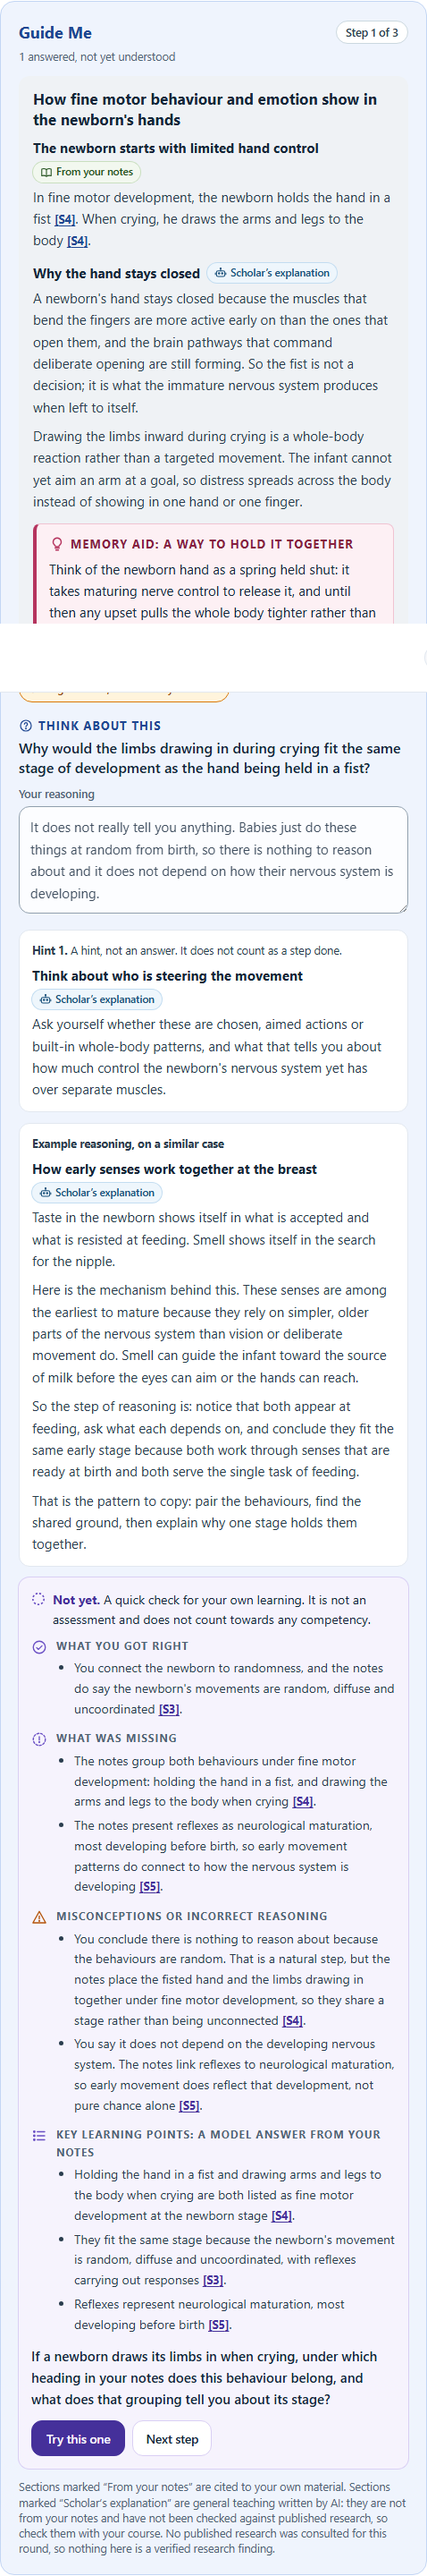
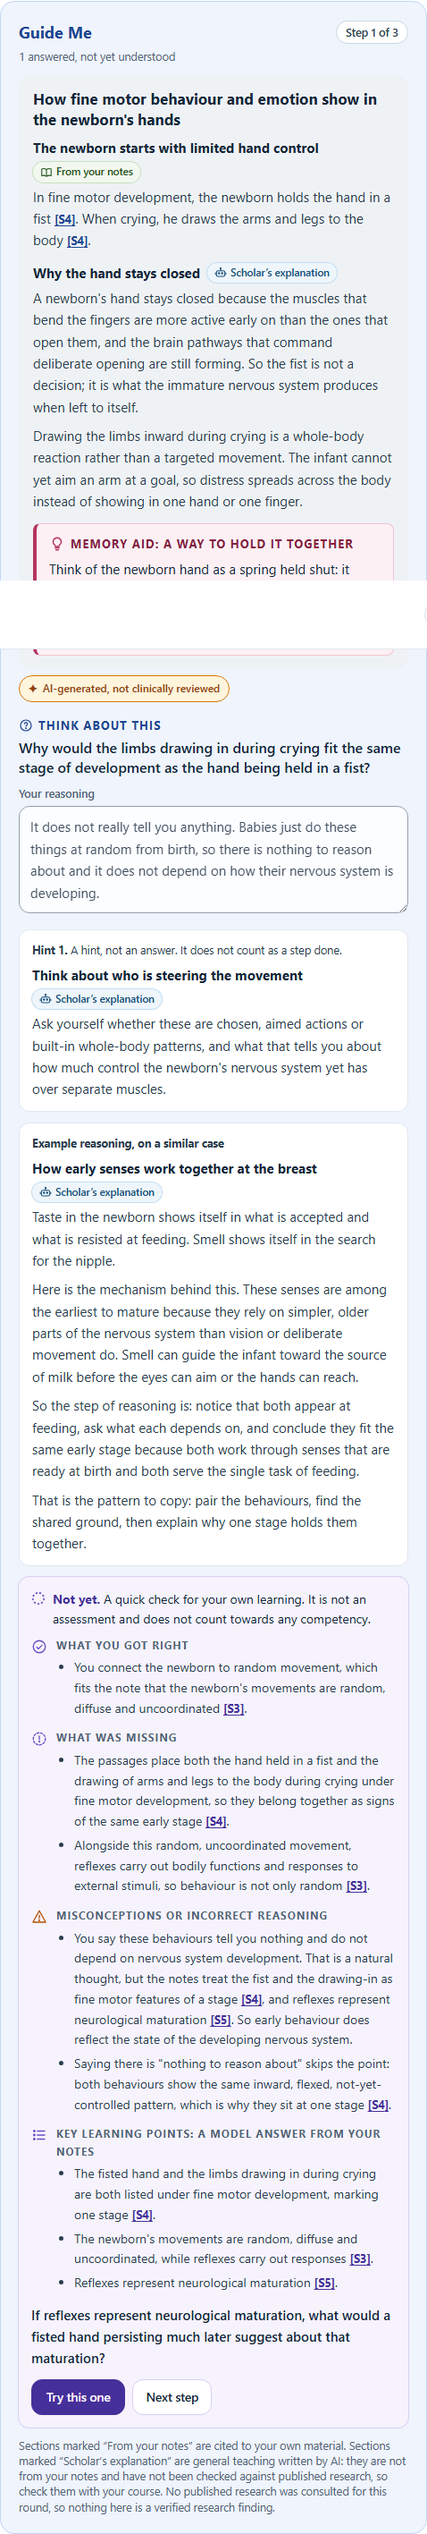
SCHOLAR-GUIDE-ME-001: each lesson has its own panel

Changed region(s): [[0.0293, 0.0, 0.9665, 1.0], [0.9958, 0.2174, 1.0, 0.2796]]

diff --git a/src/app/individual/(app)/[experience]/(scholar)/study/_components/learn-client.tsx b/src/app/individual/(app)/[experience]/(scholar)/study/_components/learn-client.tsx
@@ -1539,7 +1539,7 @@ export function LearnWorkspace(props: {
               run={runApproach(st)} onQuestion={q => checkThis(st, q)} lastCheck={lastCheck[st.step] ?? null} depth={depth} disabled={busyHere || !props.consent} accent={accent}
               memory={styleMem} remember={remember}
               guidePanel={props.guideAdaptive ? (
-                <GuideMePanel state={guideStates[st.step] ?? GUIDE_FRESH}
+                <GuideMePanel key={st.step} state={guideStates[st.step] ?? GUIDE_FRESH}
                   setState={u => setGuideStates(m => ({ ...m, [st.step]: typeof u === "function" ? u(m[st.step] ?? GUIDE_FRESH) : u }))}
                   run={runGuide(st)} busy={!!busy} disabled={busyHere || !props.consent || !!offReason("deeper")}
                   renderClarify={(p, retry) => <ClarifyPurpose clarify={p as ClarifyPrompt} busy={!!busy} accent={accent} onEducation={() => { confirmStudy(true); retry(); }} onPatient={() => confirmStudy(false)} />}
